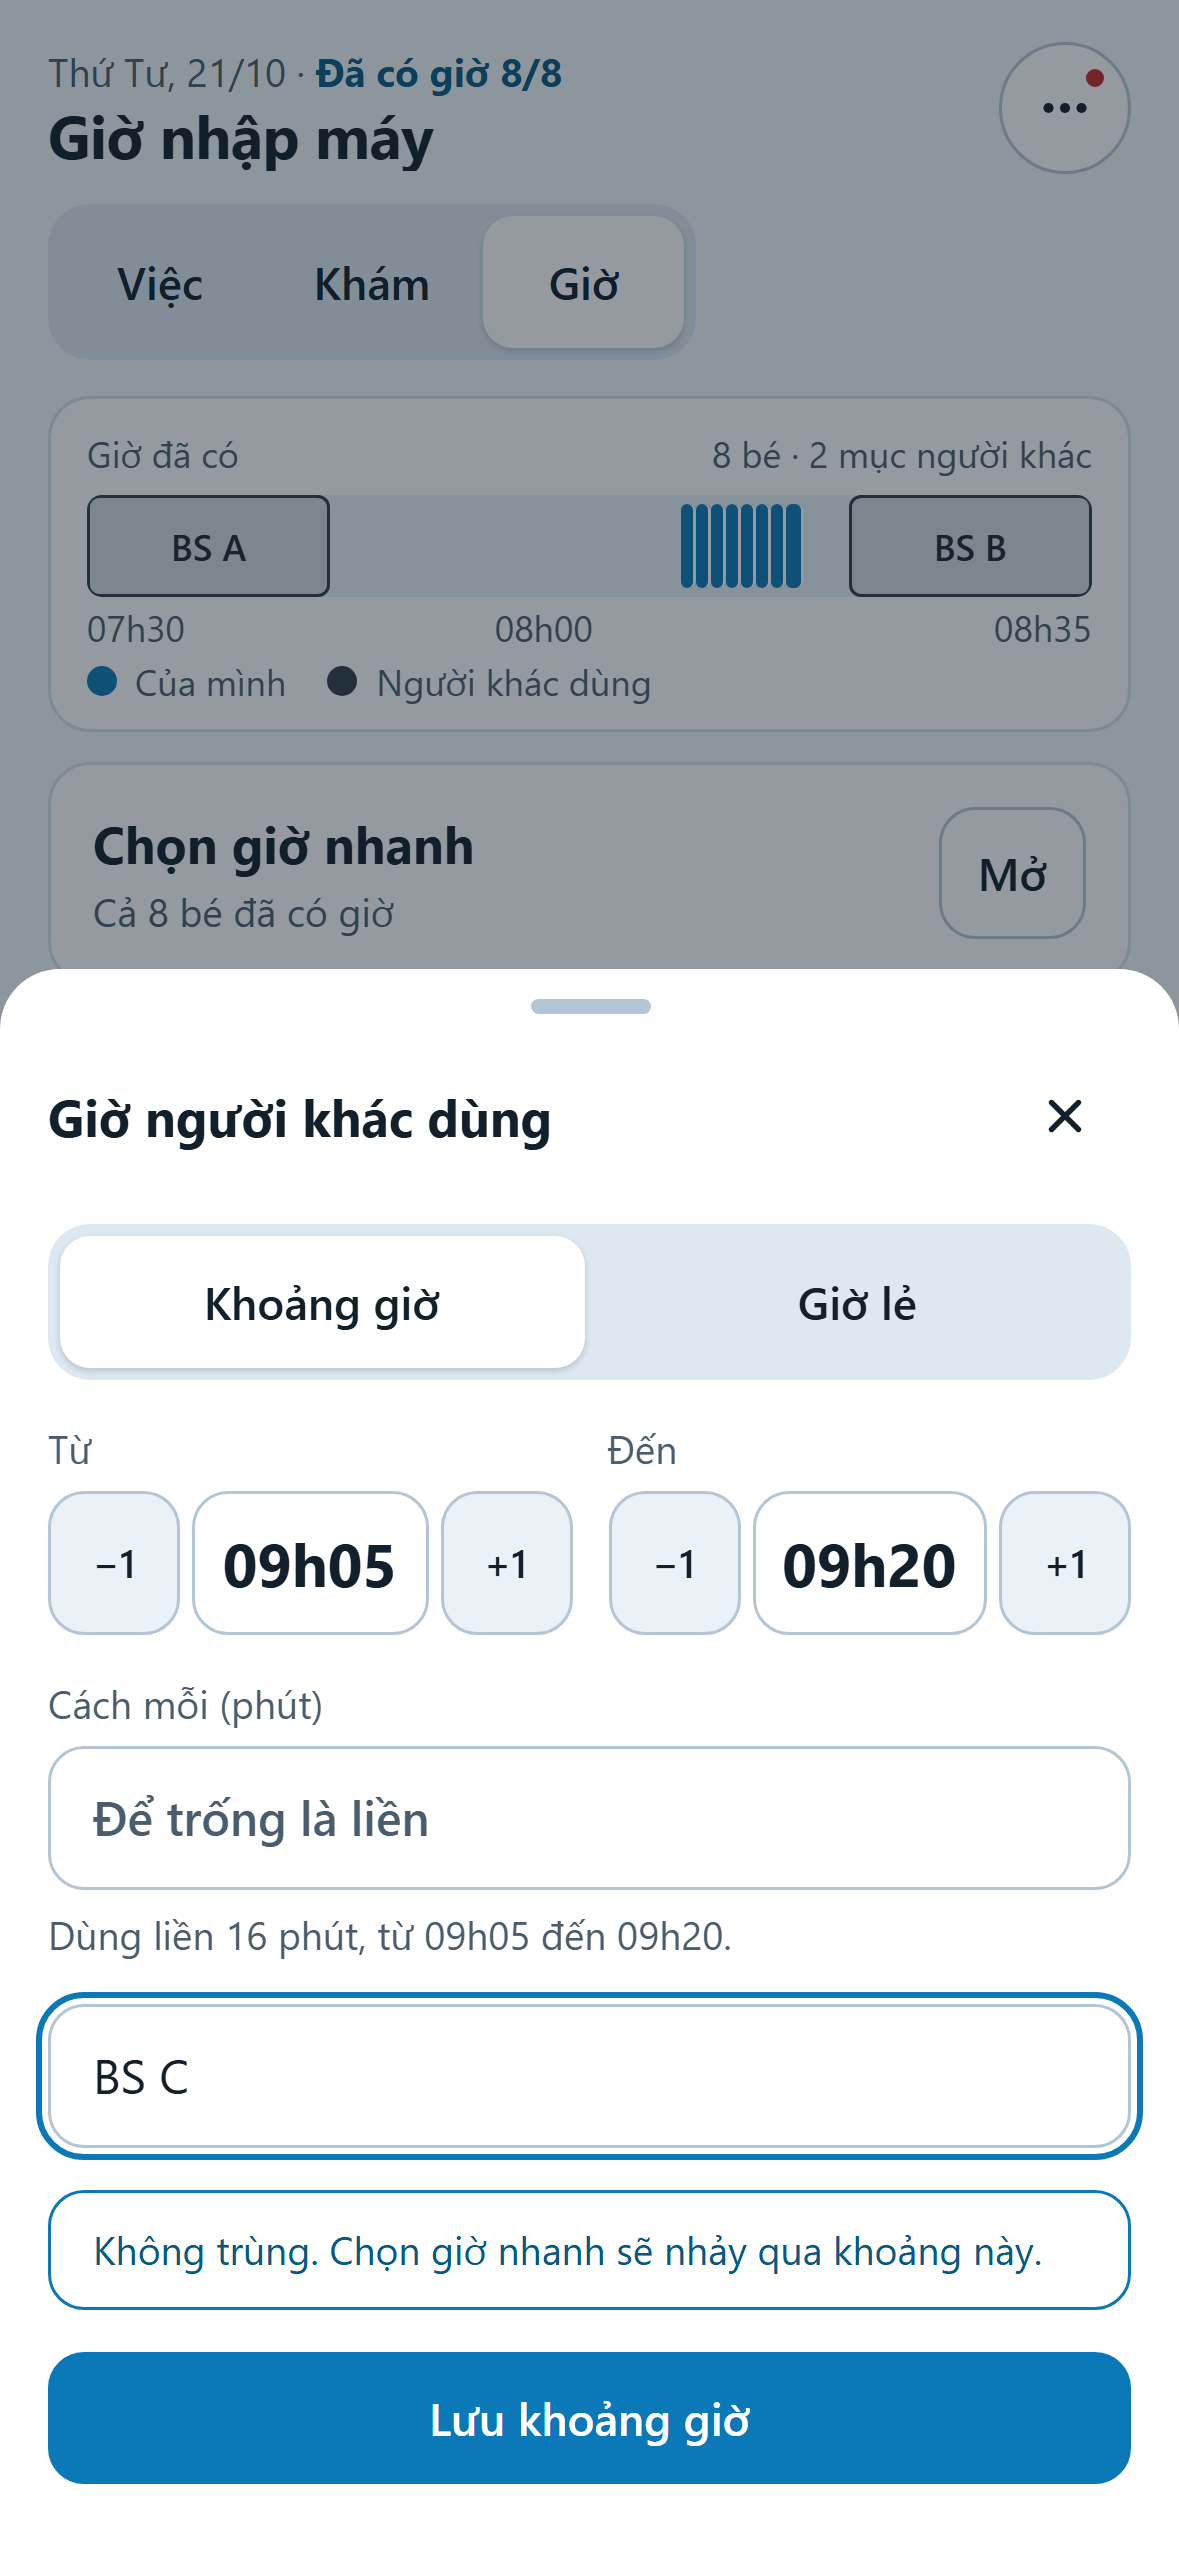
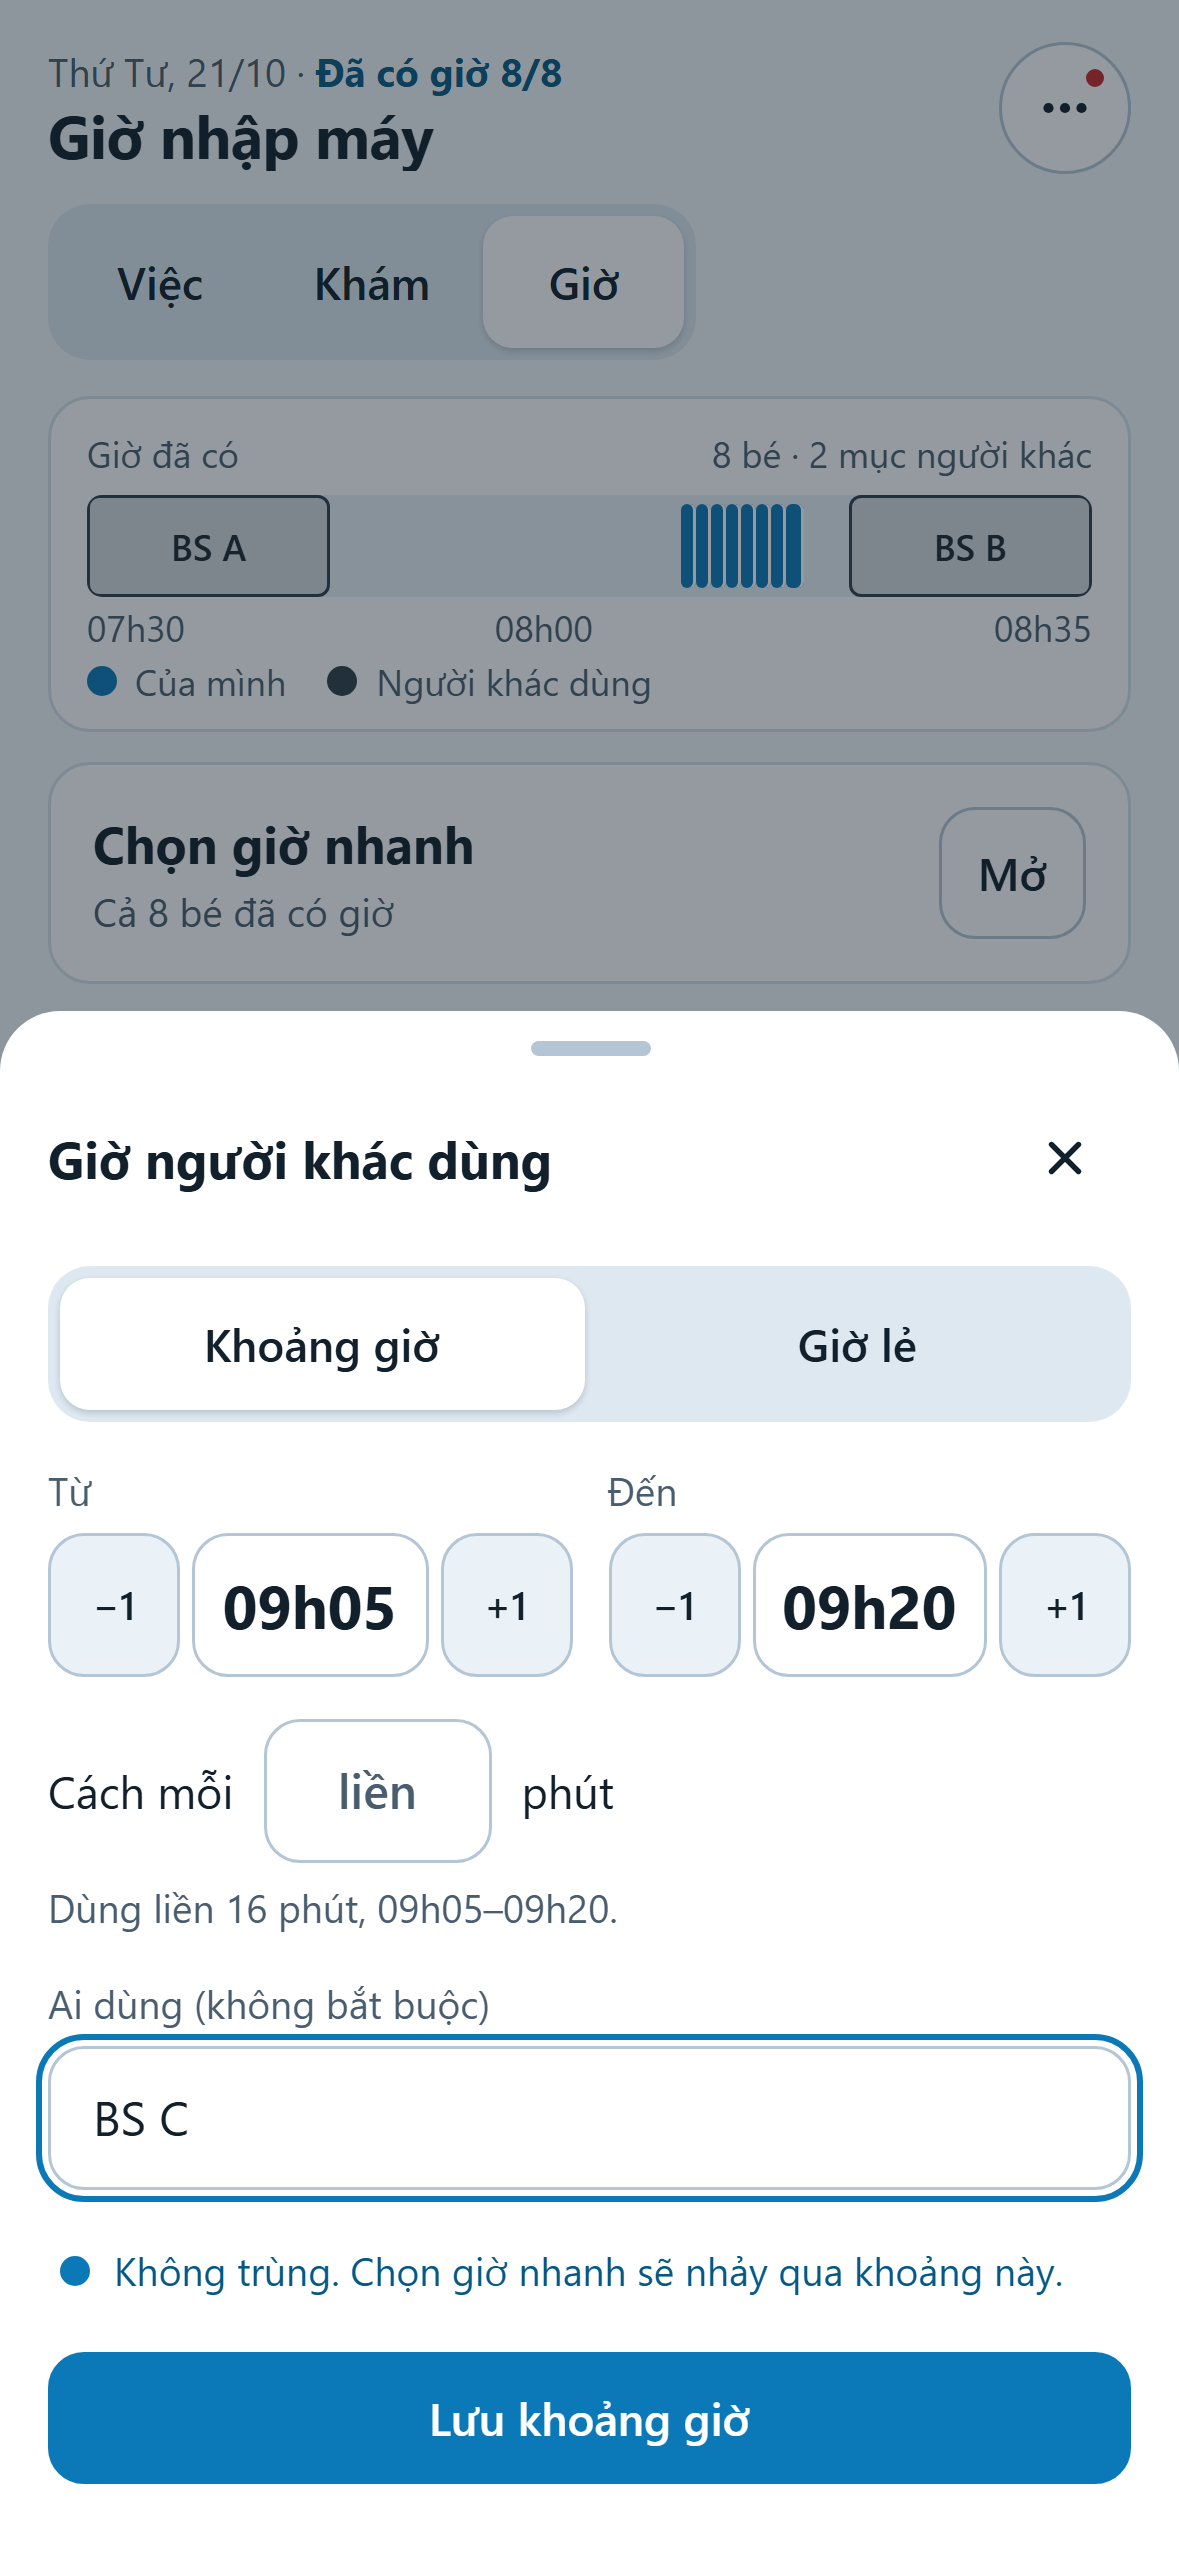
Tab Giờ: lưu ảnh chuẩn rà soát frontend-design (bác sĩ duyệt cả 5 điểm 26/11/2026)

diff --git a/doi-agent/NHAT_KY.md b/doi-agent/NHAT_KY.md
@@ -62,6 +62,15 @@
 | 64 | Bỏ nhãn MT khi việc đang bật "đã nhập máy": cờ `daNhapMay` vẫn nằm trong dữ liệu nhưng không hiện nữa. | Lưu ý | Hỏi bác sĩ: khi bỏ nhãn MT thì cờ có cần tắt theo không. | Thuật toán |
 | 65 | `batTatDaNhapMay` trong `src/lib/actions.js` không còn ai gọi (mã thừa sau đợt 23/11 (2)). | Lưu ý | Đề xuất xoá hàm này; chờ bác sĩ đồng ý rồi mới làm. | Thuật toán |
 
+## 26/11/2026 — Tab Giờ: rà soát bằng skill frontend-design, chỉnh nhẹ 5 điểm (bác sĩ duyệt ảnh 26/11/2026, đã lưu ảnh chuẩn bằng `--luu-chuan`; chưa đẩy)
+
+Phiếu: `doi-agent/phieu-viec/2026-11-26-ra-soat-gio-frontend-design.json`, nhánh `ra-soat-gio`. `npm test` 368/368, dựng đạt, phạm vi đạt, bộ chụp giao diện đạt.
+
+- **Bác sĩ thấy gì đổi:** ô "Cách mỗi [ ] phút" nhỏ nằm trong câu; dòng đọc lại một câu ngắn; danh sách ghi giờ đầu + "đến hh:mm" nhỏ, tên bác sĩ thẳng hàng mã bé; giờ lẻ nhãn "Thêm giờ", gợi ý một dòng; báo "Không trùng" bỏ khung viền, có chấm xanh; ô bác sĩ có nhãn "Ai dùng (không bắt buộc)".
+- **Quyết định đổi:** màu báo "Không trùng" (mục Tab Giờ số 5 trong `QUYET_DINH_DA_CHOT.md`).
+- **Bài học:** đợt bước nhảy/giờ lẻ làm mà chưa nạp skill frontend-design như `CLAUDE.md` yêu cầu; từ nay việc giao diện nạp skill trước khi làm.
+- **Chưa kiểm:** iPhone và Safari thật.
+
 ## 26/11/2026 — Tab Giờ: khoảng giờ có bước nhảy, thêm Giờ lẻ (bác sĩ duyệt ảnh 26/11/2026, đã lưu ảnh chuẩn bằng `--luu-chuan`; chưa đẩy)
 
 Phiếu: `doi-agent/phieu-viec/2026-11-26-khoang-gio-buoc-nhay.json`, nhánh `o-gio-nho` (chung đợt với ô giờ thu nhỏ). `npm test` 368/368, dựng đạt, phạm vi đạt, bộ chụp giao diện đạt.

diff --git a/doi-agent/QUYET_DINH_DA_CHOT.md b/doi-agent/QUYET_DINH_DA_CHOT.md
@@ -149,5 +149,5 @@ Phiếu: `doi-agent/phieu-viec/2026-11-25-tab-gio-dot1-du-lieu.json`.
 2. Giờ người khác dùng chỉ là khoảng từ … đến …; một ô "Bác Sĩ" không bắt buộc.
 3. Chọn giờ nhanh: theo thứ tự phòng ở tab Khám, cách n phút, gặp giờ đã dùng thì nhảy qua; có nút Đóng / Mở. Thanh giờ chỉ từ giờ đầu đến giờ cuối đã có.
 4. Tab Khám: ô giờ kế tên, trống thì hiện đồng hồ chuông; chạm dòng bé vẫn mở chi tiết, nút máy tính chỉ đổi màu, vuốt "đã khám" không ghi giờ. Chi tiết bé: một ô giờ bên trái chip phòng. Chế độ 2 ngày chỉ hiện giờ.
-5. Màu: giờ người khác dùng xám than; báo "Không trùng" trắng viền xanh dương. Không dùng tím và xanh lá ở tab này.
+5. Màu: giờ người khác dùng xám than; báo "Không trùng" ~~trắng viền xanh dương~~ → từ 26/11/2026 (bác sĩ duyệt rà soát frontend-design): chữ xanh `--ktInk`, không nền, không viền, chấm tròn `--ktLine` ở đầu dòng (để khỏi giống nút). Không dùng tím và xanh lá ở tab này.
 6. Dữ liệu: `db.version(3)` bảng `gio_may`; `gioNhap`, `gioKham` trên dòng bé; không mang giờ sang ngày mới.
